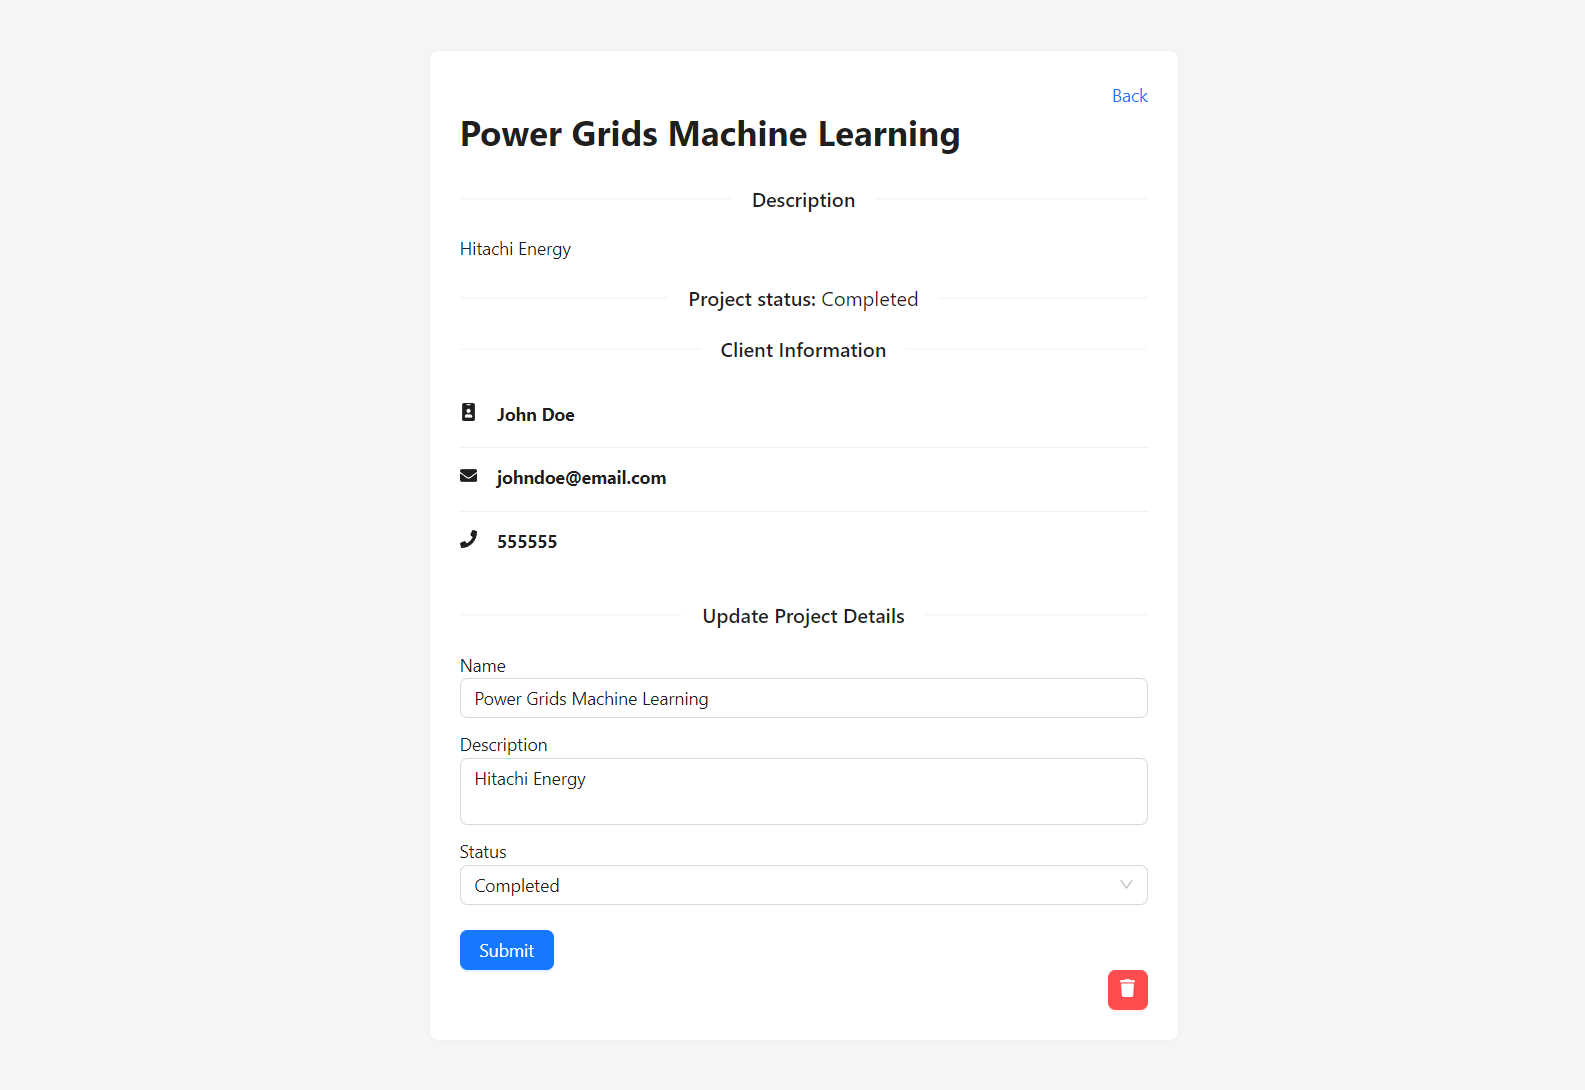
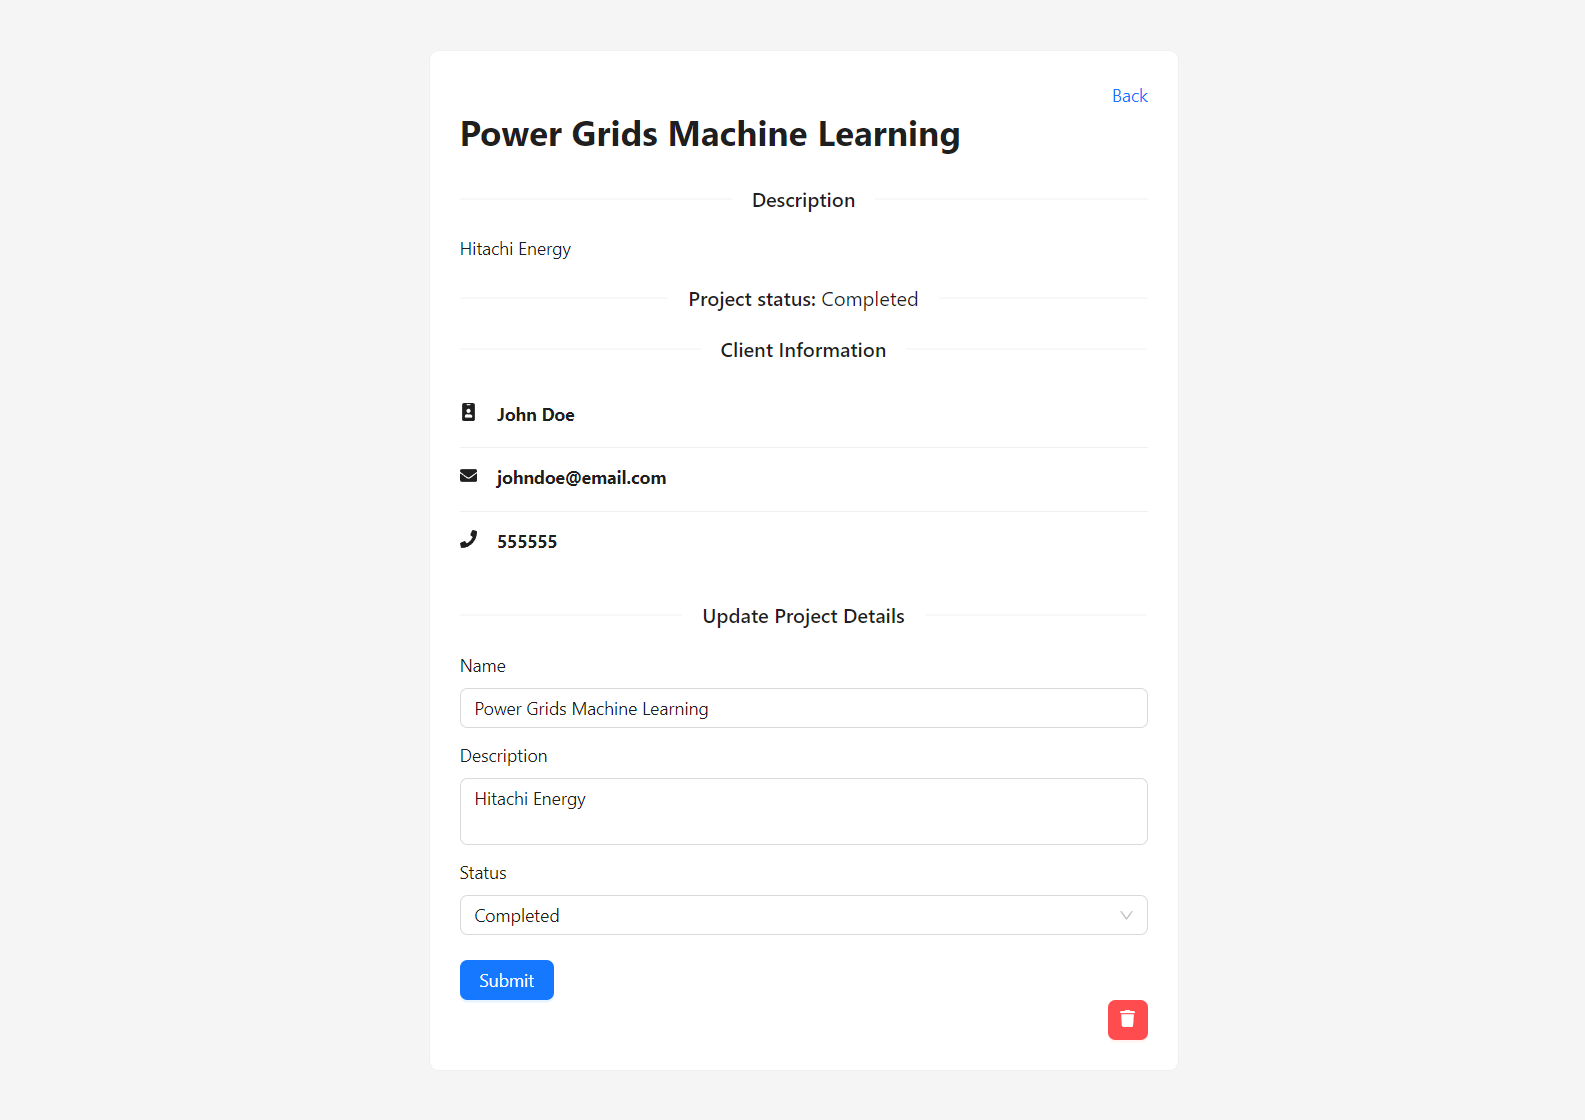
commit

diff --git a/client/src/components/AddProjectModal.tsx b/client/src/components/AddProjectModal.tsx
@@ -1,4 +1,4 @@
-import { useState, FormEvent } from 'react';
+import { useState } from 'react';
 import { FaList } from 'react-icons/fa';
 import { useMutation, useQuery } from '@apollo/client';
 import { ADD_PROJECT } from '../mutations/projectMutations';
@@ -7,15 +7,18 @@ import { GET_CLIENTS } from '../queries/clientQueries';
 import { Watch } from 'react-loader-spinner';
 import { Button, Modal, Input, Form, Select } from 'antd';
 
+type FieldType = {
+  name: string;
+  description: string;
+  status: string;
+  clientId: string;
+};
+
 export default function AddProjectModal() {
   const [open, setOpen] = useState(false);
-  const [name, setName] = useState('');
-  const [description, setDescription] = useState('');
-  const [clientId, setClientId] = useState('');
-  const [status, setStatus] = useState('new');
+  const [form] = Form.useForm();
 
   const [addProject] = useMutation(ADD_PROJECT, {
-    variables: { name, description, clientId, status },
     update(cache, { data: { addProject } }) {
       const { projects } = cache.readQuery({ query: GET_PROJECTS });
       cache.writeQuery({
@@ -27,20 +30,14 @@ export default function AddProjectModal() {
 
   const { loading, error, data } = useQuery(GET_CLIENTS);
 
-  const onSubmit = (e: FormEvent<HTMLFormElement>) => {
-    e.preventDefault();
-
-    if (name === '' || description === '' || status === '') {
-      return alert('Please fill in all fields');
+  const onFinish = ({ name, description, status, clientId }: FieldType) => {
+    if (!name || !description || !clientId) {
+      alert('Please fill in all fields');
+    } else {
+      addProject({ variables: { name, description, clientId, status } });
+      form.resetFields();
+      setOpen(false);
     }
-
-    addProject();
-
-    setName('');
-    setDescription('');
-    setStatus('new');
-    setClientId('');
-    setOpen(false);
   };
 
   if (loading) return <Watch width={25} wrapperStyle={{ display: 'flex', justifyContent: 'center' }} />;
@@ -54,24 +51,16 @@ export default function AddProjectModal() {
             New Project
           </Button>
           <Modal title='New Project' open={open} onCancel={() => setOpen(false)} footer={null}>
-            <form onSubmit={onSubmit}>
-              <div style={{ margin: '20px 0' }}>
-                <label>Name</label>
-                <Input onChange={(e) => setName(e.target.value)} value={name} />
-              </div>
-              <div style={{ marginBottom: 20 }}>
-                <label>Description</label>
-                <Input.TextArea
-                  onChange={(e) => setDescription(e.target.value)}
-                  style={{ resize: 'none' }}
-                  value={description}
-                />
-              </div>
-              <Form.Item style={{ marginBottom: 20 }}>
-                <label>Status</label>
+            <Form initialValues={{ status: 'new' }} form={form} onFinish={onFinish} layout='vertical'>
+              <Form.Item name='name' style={{ margin: '20px 0' }} label='Name'>
+                <Input placeholder='Enter project name' />
+              </Form.Item>
+              <Form.Item name='description' style={{ marginBottom: 20 }} label='Description'>
+                <Input.TextArea style={{ resize: 'none' }} placeholder='Enter description' />
+              </Form.Item>
+              <Form.Item name='status' style={{ marginBottom: 20 }} label='Status'>
                 <Select
-                  value={status}
-                  onChange={(value) => setStatus(value)}
+                  onChange={(value) => form.setFieldValue('status', value)}
                   options={[
                     { value: 'new', label: 'Not Started' },
                     { value: 'progress', label: 'In Progress' },
@@ -79,11 +68,10 @@ export default function AddProjectModal() {
                   ]}
                 />
               </Form.Item>
-              <Form.Item>
-                <label>Client</label>
+              <Form.Item name='clientId' label='Client'>
                 <Select
-                  value={clientId}
-                  onChange={(value) => setClientId(value)}
+                  placeholder='Select client'
+                  onChange={(value) => form.setFieldValue('clientId', value)}
                   options={data.clients.map(({ id, name }: Client) => ({ value: id, label: name }))}
                 />
               </Form.Item>
@@ -92,7 +80,7 @@ export default function AddProjectModal() {
                   Submit
                 </Button>
               </div>
-            </form>
+            </Form>
           </Modal>
         </>
       )}

diff --git a/client/src/components/AddClientModal.tsx b/client/src/components/AddClientModal.tsx
@@ -1,21 +1,23 @@
-import { useState, FormEvent } from 'react';
+import { useState } from 'react';
 import { FaUser } from 'react-icons/fa';
 import { useMutation } from '@apollo/client';
 import { ADD_CLIENT } from '../mutations/clientMutations';
 import { GET_CLIENTS } from '../queries/clientQueries';
-import { Button, Modal, Input } from 'antd';
+import { Button, Modal, Input, Form } from 'antd';
+
+type FieldType = {
+  name: string;
+  email: string;
+  phone: string;
+};
 
 export default function AddClientModal() {
   const [open, setOpen] = useState(false);
-  const [name, setName] = useState('');
-  const [email, setEmail] = useState('');
-  const [phone, setPhone] = useState('');
+  const [form] = Form.useForm();
 
   const [addClient] = useMutation(ADD_CLIENT, {
-    variables: { name, email, phone },
     update(cache, { data: { addClient } }) {
       const { clients } = cache.readQuery({ query: GET_CLIENTS });
-
       cache.writeQuery({
         query: GET_CLIENTS,
         data: { clients: [...clients, addClient] },
@@ -23,18 +25,14 @@ export default function AddClientModal() {
     },
   });
 
-  const onSubmit = (e: FormEvent<HTMLFormElement>) => {
-    e.preventDefault();
-
-    if (name === '' || email === '' || phone === '') {
-      return alert('Please fill in all fields');
+  const onFinish = ({ name, email, phone }: FieldType) => {
+    if (!name || !email || !phone) {
+      alert('Please fill in all fields');
+      return;
     }
 
-    addClient();
-
-    setName('');
-    setEmail('');
-    setPhone('');
+    addClient({ variables: { name, email, phone } });
+    form.resetFields();
     setOpen(false);
   };
 
@@ -51,25 +49,32 @@ export default function AddClientModal() {
           footer={null}
           style={{ width: '100vw', overflow: 'hidden' }}
         >
-          <form onSubmit={onSubmit}>
-            <div style={{ margin: '20px 0' }}>
-              <label>Name</label>
-              <Input onChange={(e) => setName(e.target.value)} value={name} />
-            </div>
-            <div style={{ marginBottom: 20 }}>
-              <label>Email</label>
-              <Input onChange={(e) => setEmail(e.target.value)} value={email} />
-            </div>
-            <div style={{ marginBottom: 20 }}>
-              <label>Phone</label>
-              <Input onChange={(e) => setPhone(e.target.value)} value={phone} />
-            </div>
+          <Form onFinish={onFinish} layout='vertical' form={form}>
+            <Form.Item style={{ margin: '20px 0' }} label='Name' name='name'>
+              <Input placeholder='Enter name' />
+            </Form.Item>
+            <Form.Item label='Email' name='email' style={{ marginBottom: 20 }}>
+              <Input type='email' placeholder='Enter email' />
+            </Form.Item>
+            <Form.Item
+              rules={[
+                {
+                  pattern: /^(?:0\.(?:0[0-9]|[0-9]\d?)|[0-9]\d*(?:\.\d{1,2})?)(?:e[+-]?\d+)?$/,
+                  message: 'Incorrect phone number',
+                },
+              ]}
+              style={{ marginBottom: 20 }}
+              label='Phone'
+              name='phone'
+            >
+              <Input type='tel' placeholder='Enter phone number' />
+            </Form.Item>
             <div style={{ display: 'flex', justifyContent: 'flex-end' }}>
               <Button type='primary' htmlType='submit'>
                 Submit
               </Button>
             </div>
-          </form>
+          </Form>
         </Modal>
       )}
     </>

diff --git a/client/src/components/EditProjectForm.tsx b/client/src/components/EditProjectForm.tsx
@@ -1,4 +1,3 @@
-import { useState, FormEvent } from 'react';
 import { useMutation } from '@apollo/client';
 import { GET_PROJECT } from '../queries/projectQueries';
 import { UPDATE_PROJECT } from '../mutations/projectMutations';
@@ -8,58 +7,46 @@ type Props = {
   project: Project;
 };
 
+type FieldType = {
+  name: string;
+  description: string;
+  status: string;
+};
+
 export default function EditProjectForm({ project }: Props) {
-  const [name, setName] = useState(project.name);
-  const [description, setDescription] = useState(project.description);
-  const [status, setStatus] = useState(() => {
-    switch (project.status) {
-      case 'Not Started':
-        return 'new';
-      case 'In Progress':
-        return 'progress';
-      case 'Completed':
-        return 'completed';
-      default:
-        throw new Error(`Unknown status: ${project.status}`);
-    }
-  });
+  const [form] = Form.useForm();
 
   const [updateProject] = useMutation(UPDATE_PROJECT, {
-    variables: { id: project.id, name, description, status },
     refetchQueries: [{ query: GET_PROJECT, variables: { id: project.id } }],
   });
 
-  const onSubmit = (e: FormEvent<HTMLFormElement>) => {
-    e.preventDefault();
-
+  const onFinish = ({ name, description, status }: FieldType) => {
     if (!name || !description || !status) {
       return alert('Please fill out all fields');
     }
 
-    updateProject();
+    updateProject({ variables: { id: project.id, name, description, status } });
+  };
+
+  const initialValues = {
+    name: project.name,
+    description: project.description,
+    status: project.status,
   };
 
   return (
     <div style={{ marginTop: 20 }}>
       <Divider>Update Project Details</Divider>
-      <form onSubmit={onSubmit}>
-        <div style={{ marginBottom: 10 }}>
-          <label>Name</label>
-          <Input onChange={(e) => setName(e.target.value)} value={name} />
-        </div>
-        <div style={{ marginBottom: 10 }}>
-          <label>Description</label>
-          <Input.TextArea
-            value={description}
-            style={{ resize: 'none' }}
-            onChange={(e) => setDescription(e.target.value)}
-          />
-        </div>
-        <Form.Item style={{ marginBottom: 20 }}>
-          <label>Status</label>
+      <Form onFinish={onFinish} layout='vertical' initialValues={initialValues} form={form}>
+        <Form.Item style={{ marginBottom: 10 }} label='Name' name='name'>
+          <Input placeholder='Enter project name' />
+        </Form.Item>
+        <Form.Item style={{ marginBottom: 10 }} label='Description' name='description'>
+          <Input.TextArea style={{ resize: 'none' }} placeholder='Enter description' />
+        </Form.Item>
+        <Form.Item style={{ marginBottom: 20 }} label='Status' name='status'>
           <Select
-            value={status}
-            onChange={(value) => setStatus(value)}
+            onChange={(value) => form.setFieldValue('status', value)}
             options={[
               { value: 'new', label: 'Not Started' },
               { value: 'progress', label: 'In Progress' },
@@ -70,7 +57,7 @@ export default function EditProjectForm({ project }: Props) {
         <Button type='primary' htmlType='submit'>
           Submit
         </Button>
-      </form>
+      </Form>
     </div>
   );
 }
